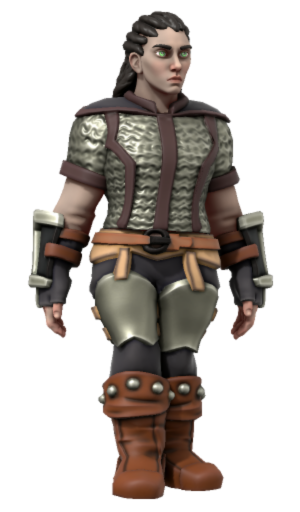
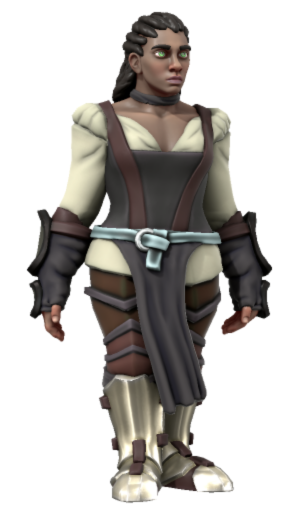
PC image refresh

diff --git a/astarus/people/ephaine-seren.md b/astarus/people/ephaine-seren.md
@@ -2,6 +2,13 @@
 
 <img src="../../images/people/ephaine-seren.png" height="300" />
 
+<details>
+  <summary>
+    <a href="https://www.dndbeyond.com/classes/druid#CircleofStars">Starry Form</a>
+  </summary>
+  <img src="../../images/people/ephaine-seren-starry-form.png" height="300" />
+</details>
+
 | []() | |
 | --- | --- |
 | **Name** | Ephaine Seren |

diff --git a/astarus/people/saoirse.md b/astarus/people/saoirse.md
@@ -4,6 +4,13 @@ TODO
 
 <img src="../../images/people/saoirse.png" height="300" />
 
+<details>
+  <summary>
+    <a href="https://www.dndbeyond.com/races/aasimar#FallenAasimar">Necrotic Shroud</a>
+  </summary>
+  <img src="../../images/people/saoirse-necrotic-shroud.png" height="300" />
+</details>
+
 | []() | |
 | --- | --- |
 | **Name** | |

diff --git a/astarus/people/thanea.md b/astarus/people/thanea.md
@@ -4,6 +4,13 @@ TODO
 
 <img src="../../images/people/thanea.png" height="300" />
 
+<details>
+  <summary>
+    <a href="https://www.dndbeyond.com/races/aasimar#ProtectorAasimar">Radiant Soul</a>
+  </summary>
+  <img src="../../images/people/thanea-radiant-soul.png" height="300" />
+</details>
+
 | []() | |
 | --- | --- |
 | **Name** | |
